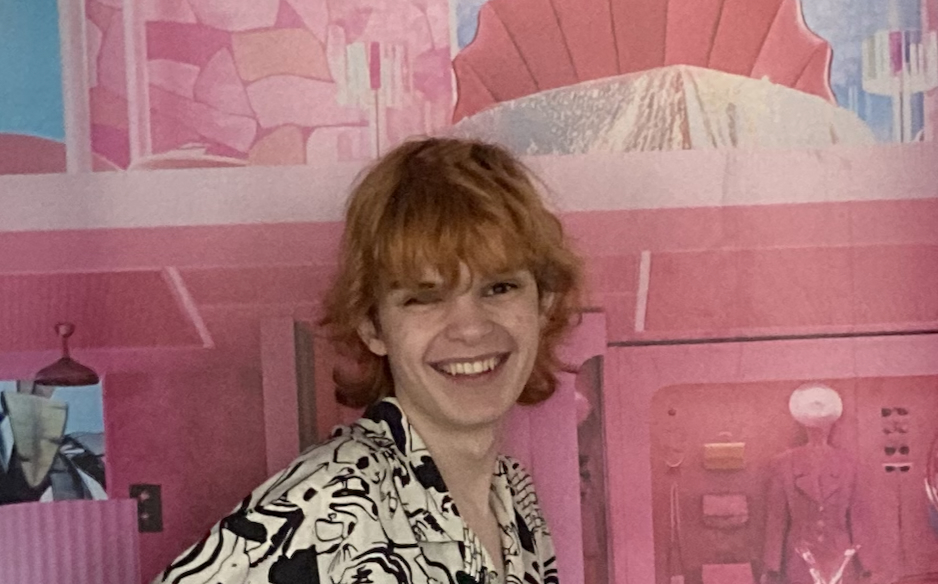
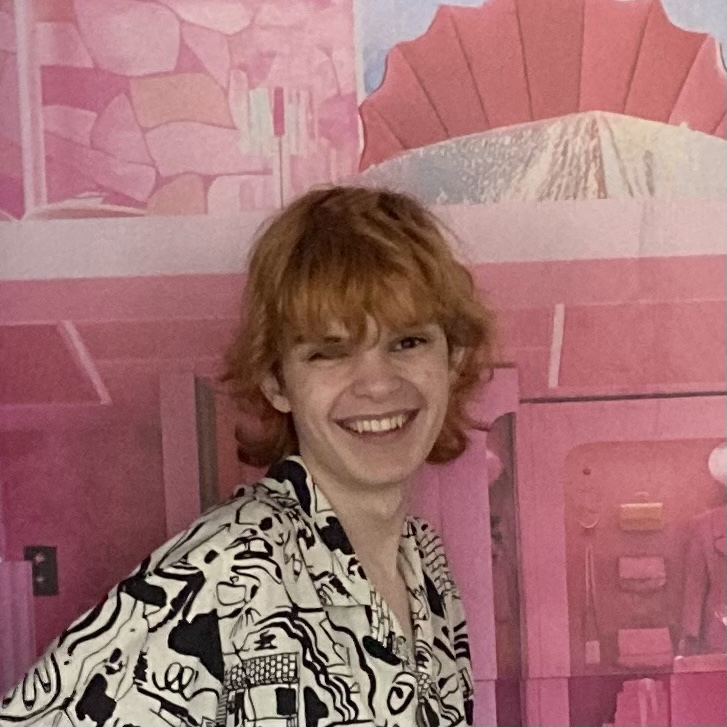
made felix image square

diff --git a/app/public/style.css b/app/public/style.css
@@ -24,7 +24,7 @@
 }
 
 main{
-    min-height: 80vh;
+    min-height: 73vh;
 }
 body {
     font-family: Lato, Arial, Helvetica, sans-serif;
@@ -205,10 +205,10 @@ button {
     border-radius: 32px;
     margin: 16px auto;
     width: 50%;
-
 }
 #teamImage {
-    width:100%;
+    float:right;
+    width:19%;
     border-radius: 8px;
 }
 #mainA {
@@ -276,7 +276,7 @@ button {
     background-color: var(--black1);
 }
 
-#tabText.felix {
+.felix {
     background-color: rgb(225, 204, 218);
     border-color: rgb(81, 32, 74);
 }
@@ -383,6 +383,7 @@ footer {
 
     #tabText{
         margin: auto 5%;
+        height: 19%;
     }
     #mainA {
         display: block;

diff --git a/app/public/team.js b/app/public/team.js
@@ -72,6 +72,6 @@ let text = document.querySelector("#tabText > p");
 let header = document.querySelector("header > h1");
 let par = document.querySelector("section > p");
 let buttons =document.querySelectorAll("button");
-let pfp = document.querySelector("#teamImage")
+let pfp = document.querySelector("#mainImg")
 tab.addEventListener("click", toggleTab);
 window.addEventListener("DOMContentLoaded", loadContent, false);

diff --git a/app/public/team.html b/app/public/team.html
@@ -30,9 +30,9 @@
                         <li><button  class="tab"></button></li>
                     </ul>
                     <div id="tabText">
-                        <img id="teamImage">
-                        <p></p>
+                        <p id="teamText"></p>
                     </div>
+                    <img id="mainImg">
             </section>
         </main>
         <footer>
